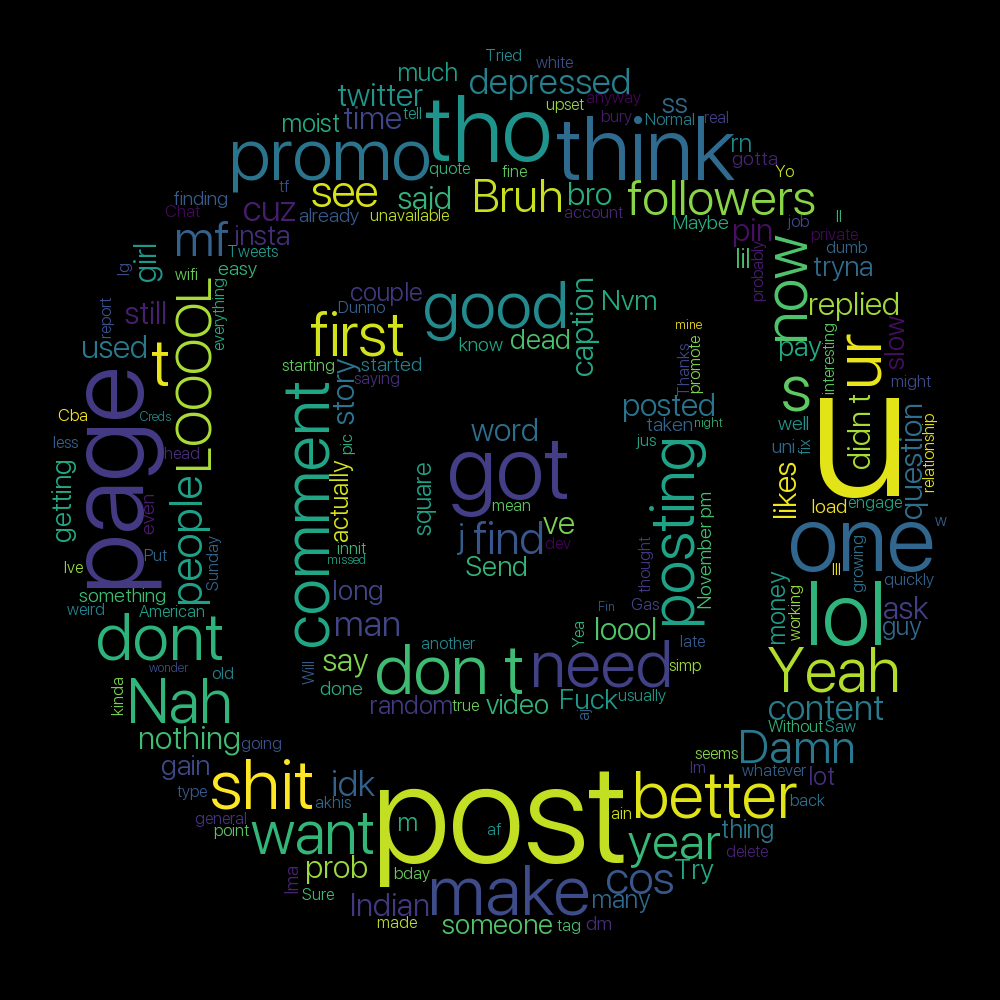
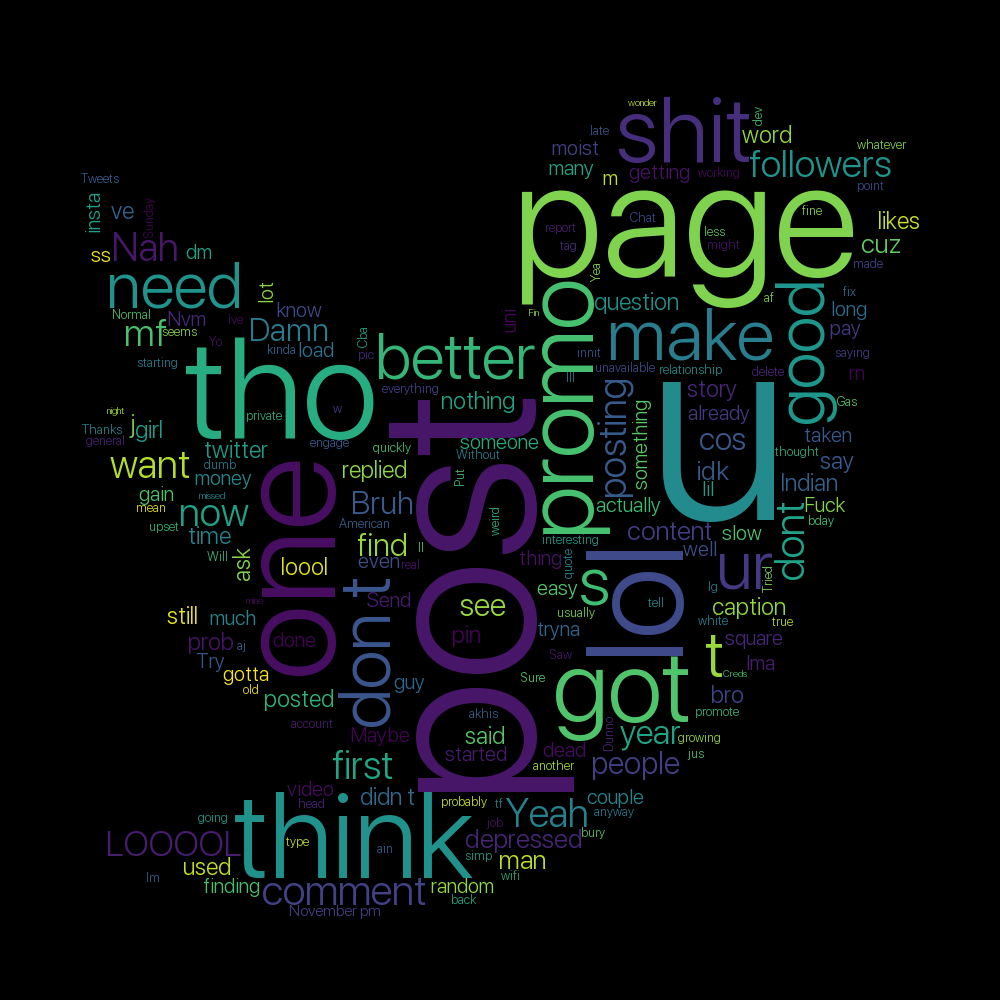
reorganise

Changed region(s): [[0.062, 0.031, 0.93, 0.93]]

diff --git a/word_cloud.py b/word_cloud.py
@@ -4,15 +4,15 @@ from PIL import Image # load image
 import numpy as np # get colour of image
 
 # Content-related
-text = open('batman.txt', 'r', encoding='utf-8').read()
+text = open('Text\\text.txt', 'r', encoding='utf-8').read()
 stopwords = STOPWORDS
 
 # Mask
-custom_mask = np.array(Image.open('batman.png'))
+custom_mask = np.array(Image.open('Masks\\twitter_logo.png'))
 
 # WordCloud attributes
 wc = WordCloud(
-    font_path = 'SFProDisplay-Light.ttf',
+    font_path = 'Fonts\\SFProDisplay-Light.ttf',
     #margin = 10,
     mask = custom_mask,
     background_color = 'black',
@@ -32,4 +32,4 @@ wc.generate(text)
 ## wc.recolor(color_func = image_colours)
 
 # Store to file
-wc.to_file('batman_output.png')
+wc.to_file('Output\\output.png')
